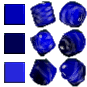
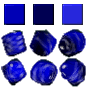
basic dice added
git-svn-id: https://svn.code.sf.net/p/domination/code@417 5f7a89d5-bd68-4938-9893-cab8262575d4

diff --git a/Domination/src_android/net/yura/domination/mobile/flashgui/BattleDialog.java b/Domination/src_android/net/yura/domination/mobile/flashgui/BattleDialog.java
@@ -5,6 +5,7 @@ import com.nokia.mid.ui.DirectGraphics;
 import com.nokia.mid.ui.DirectUtils;
 import javax.microedition.lcdui.Image;
 import javax.microedition.lcdui.game.Sprite;
+import net.yura.domination.engine.Risk;
 import net.yura.domination.engine.RiskUtil;
 import net.yura.mobile.gui.Font;
 import net.yura.mobile.gui.Graphics2D;
@@ -16,6 +17,7 @@ import net.yura.mobile.gui.components.Frame;
 public class BattleDialog extends Frame {
 
     MiniFlashGUI mainFrame;
+    Sprite red_dice,blue_dice;
 
     public BattleDialog(MiniFlashGUI a) {
         mainFrame = a;
@@ -24,14 +26,13 @@ public class BattleDialog extends Frame {
 
         try {
             Image red_img = Image.createImage("/red_dice.png");
-            Sprite red_dice = new Sprite(red_img, red_img.getWidth()/3, red_img.getHeight()/3 ); // 29x29
+            red_dice = new Sprite(red_img, red_img.getWidth()/3, red_img.getHeight()/3 ); // 29x29
 
             Image blue_img = Image.createImage("/blue_dice.png");
-            Sprite blue_dice = new Sprite(blue_img, blue_img.getWidth()/3, blue_img.getHeight()/3 ); // 29x29
+            blue_dice = new Sprite(blue_img, blue_img.getWidth()/3, blue_img.getHeight()/3 ); // 29x29
 
             //ProgressBar redbar = new ProgressBar(red_dice);
             //ProgressBar bluebar = new ProgressBar(blue_dice);
-
 
         }
         catch (Exception ex) {
@@ -43,7 +44,9 @@ public class BattleDialog extends Frame {
 
     int[] att,def; // these are the dice results
     int noda,nodd; // these are the number of spinning dice
-    boolean ani;
+    int c1num,c2num;
+    boolean ani,canRetreat;
+    int nod,max;
     //@Override
     public void animate() throws InterruptedException {
 
@@ -68,6 +71,36 @@ public class BattleDialog extends Frame {
 
     }
 
+    void needInput(int n, boolean c) {
+
+//        button.setEnabled(true);
+        max=n;
+        nod=max;
+        canRetreat=c;
+
+        att=null;
+        def=null;
+
+        if (canRetreat) {
+//                retreat.setVisible(true);
+//                setTitle(resb.getString("battle.select.attack"));
+        }
+        else {
+//                setTitle(resb.getString("battle.select.defend"));
+        }
+
+        repaint();
+
+    }
+
+    void setup(int c1num, int c2num) {
+        this.c1num = c1num;
+        this.c2num = c2num;
+    }
+
+    private static final int DICE_NORMAL = 0;
+    private static final int DICE_DARK = 1;
+
     public void paintComponent(Graphics2D g) {
 
         // just in case in the middle of the draw the att and def get set to null
@@ -76,8 +109,8 @@ public class BattleDialog extends Frame {
 
 
         // we are not drawing the countires, we will use the ones already on the map behind thid dialog
-        //g.drawImage(c1img, 130-(c1img.getWidth()/2), 100-(c1img.getHeight()/2), this);
-        //g.drawImage(c2img, 350-(c2img.getWidth()/2), 100-(c2img.getHeight()/2), this);
+        //g.drawSprite(c1img, 130-(c1img.getWidth()/2), 100-(c1img.getHeight()/2), this);
+        //g.drawSprite(c2img, 350-(c2img.getWidth()/2), 100-(c2img.getHeight()/2), this);
 
         // not supported
         //g2.setRenderingHint(RenderingHints.KEY_ANTIALIASING, RenderingHints.VALUE_ANTIALIAS_ON);
@@ -91,7 +124,7 @@ public class BattleDialog extends Frame {
         //tl = new TextLayout( country2.getName(), font, frc); // Display
         //tl.draw( g, (float) (350-(tl.getBounds().getWidth()/2)), 40f );
 
-        g.drawString("TODO", 5, 5);
+        g.drawString("TODO", 50, 50);
 
         //tl = new TextLayout( resb.getString("battle.select.dice") , font, frc);
         //tl.draw( g, (float) (240-(tl.getBounds().getWidth()/2)), 320f );
@@ -146,9 +179,11 @@ public class BattleDialog extends Frame {
         else {
                 g.drawString( String.valueOf( noa ) , 340, 105 );
         }
-
+*/
         // #####################################################
         // ################## drawing DICE!!!!! ################
+
+        Risk myrisk = mainFrame.myrisk;
 
         // this is the max defend dice allowed for this battle
         int deadDice = myrisk.hasArmiesInt(c2num);
@@ -159,53 +194,53 @@ public class BattleDialog extends Frame {
         // selecting the number of attacking dice
         if (max != 0 && canRetreat) {
 
-                g.drawImage( Battle.getSubimage(481, 0, 21, 21) , 120, 180, this );
+                g.drawSprite(red_dice, DICE_NORMAL, 120, 180);
 
                 if (nod > 1) {
-                    g.drawImage( Battle.getSubimage(481, 0, 21, 21) , 120, 211, this );
+                    g.drawSprite( red_dice , DICE_NORMAL , 120, 211);
                 }
                 else if (max > 1) {
-                    g.drawImage( Battle.getSubimage(502, 0, 21, 21) , 120, 211, this );
+                    g.drawSprite( red_dice , DICE_DARK , 120, 211 );
                 }
 
                 if (nod > 2) {
-                    g.drawImage( Battle.getSubimage(481, 0, 21, 21) , 120, 242, this );
+                    g.drawSprite( red_dice, DICE_NORMAL , 120, 242 );
                 }
                 else if (max > 2) {
-                    g.drawImage( Battle.getSubimage(502, 0, 21, 21) , 120, 242, this );
+                    g.drawSprite( red_dice , DICE_DARK , 120, 242 );
                 }
 
                 // draw the dead dice
 
-                g.drawImage( Battle.getSubimage(502, 21, 21, 21) , 339, 180, this );
+                g.drawSprite( blue_dice , DICE_DARK , 339, 180 );
 
                 if (deadDice > 1) {
-                    g.drawImage( Battle.getSubimage(502, 21, 21, 21) , 339, 211, this );
+                    g.drawSprite( blue_dice , DICE_DARK , 339, 211 );
                 }
 
                 if (deadDice > 2) {
-                    g.drawImage( Battle.getSubimage(502, 21, 21, 21) , 339, 242, this );
+                    g.drawSprite( blue_dice , DICE_DARK , 339, 242 );
                 }
 
         }
         // selecting the number of dice to defend
         else if (max != 0 ) {
 
-                g.drawImage( Battle.getSubimage(481, 21, 21, 21) , 339, 180, this );
+                g.drawSprite( blue_dice , DICE_NORMAL , 339, 180 );
 
                 if (nod > 1) {
-                    g.drawImage( Battle.getSubimage(481, 21, 21, 21) , 339, 211, this );
+                    g.drawSprite( blue_dice , DICE_NORMAL , 339, 211 );
                 }
                 else if (max > 1) {
-                    g.drawImage( Battle.getSubimage(502, 21, 21, 21) , 339, 211, this );
+                    g.drawSprite( blue_dice , DICE_DARK , 339, 211 );
                 }
 
 
                 if (nod > 2) {
-                    g.drawImage( Battle.getSubimage(481, 21, 21, 21) , 339, 242, this );
+                    g.drawSprite( blue_dice , DICE_NORMAL , 339, 242 );
                 }
                 else if (max > 2) {
-                    g.drawImage( Battle.getSubimage(502, 21, 21, 21) , 339, 242, this );
+                    g.drawSprite( blue_dice , DICE_DARK , 339, 242 );
                 }
 
         }
@@ -213,14 +248,14 @@ public class BattleDialog extends Frame {
         else if (max == 0 && nodd == 0 && atti == null && defi == null ) {
 
                 // draw the dead dice
-                g.drawImage( Battle.getSubimage(502, 21, 21, 21) , 339, 180, this );
+                g.drawSprite( blue_dice , DICE_DARK , 339, 180 );
 
                 if (deadDice > 1) {
-                    g.drawImage( Battle.getSubimage(502, 21, 21, 21) , 339, 211, this );
+                    g.drawSprite( blue_dice , DICE_DARK , 339, 211 );
                 }
 
                 if (deadDice > 2) {
-                    g.drawImage( Battle.getSubimage(502, 21, 21, 21) , 339, 242, this );
+                    g.drawSprite( blue_dice , DICE_DARK , 339, 242 );
                 }
 
                 if (noda == 0) {
@@ -229,19 +264,19 @@ public class BattleDialog extends Frame {
                         int AdeadDice = myrisk.hasArmiesInt(c1num)-1;
                         // we assume that the attacker can attack with max of 3 dice
 
-                        g.drawImage( Battle.getSubimage(502, 0, 21, 21) , 120, 180, this );
+                        g.drawSprite( red_dice , DICE_DARK , 120, 180 );
 
                         if (AdeadDice > 1) {
-                                g.drawImage( Battle.getSubimage(502, 0, 21, 21) , 120, 211, this );
+                                g.drawSprite( red_dice , DICE_DARK , 120, 211 );
                         }
                         if (AdeadDice > 2) {
-                                g.drawImage( Battle.getSubimage(502, 0, 21, 21) , 120, 242, this );
+                                g.drawSprite( red_dice , DICE_DARK , 120, 242 );
                         }
 
                 }
 
         }
-
+/*
         // #####################################################
         // ##################### END DICE ######################
 
@@ -321,24 +356,24 @@ public class BattleDialog extends Frame {
 
 
                 // draw attacker dice
-                g.drawImage( getDice(true, atti[0] ), 120, 180, this );
+                g.drawSprite( getDice(true, atti[0] ), 120, 180, this );
 
                 if (atti.length > 1) {
-                        g.drawImage( getDice(true, atti[1] ), 120, 211, this );
+                        g.drawSprite( getDice(true, atti[1] ), 120, 211, this );
                 }
                 if (atti.length > 2) {
-                        g.drawImage( getDice(true, atti[2] ), 120, 242, this );
+                        g.drawSprite( getDice(true, atti[2] ), 120, 242, this );
                 }
 
                 // draw defender dice
-                g.drawImage( getDice(false, defi[0] ), 339, 180, this );
+                g.drawSprite( getDice(false, defi[0] ), 339, 180, this );
 
                 if (defi.length > 1) {
-                        g.drawImage( getDice(false, defi[1] ), 339, 211, this );
+                        g.drawSprite( getDice(false, defi[1] ), 339, 211, this );
                 }
 
                 if (defi.length > 2) {
-                    g.drawImage( getDice(false, defi[2] ), 339, 242, this );
+                    g.drawSprite( getDice(false, defi[2] ), 339, 242, this );
                 }
 
         }

diff --git a/Domination/src_android/net/yura/domination/mobile/flashgui/MiniFlashRiskAdapter.java b/Domination/src_android/net/yura/domination/mobile/flashgui/MiniFlashRiskAdapter.java
@@ -57,9 +57,26 @@ public class MiniFlashRiskAdapter implements RiskListener {
 
     // ========================= in game ==============================
 
+    int nod;
     @Override
     public void needInput(int s) {
-        mainFrame.needInput(s);
+
+        if (s == RiskGame.STATE_ROLLING) {
+
+                battle.needInput(nod, true);
+
+        }
+        else if (s == RiskGame.STATE_DEFEND_YOURSELF) {
+
+                battle.needInput(nod, false);
+
+        }
+        //else { // this will update the state in the gameframe
+
+                mainFrame.needInput(s);
+
+        //}
+
     }
 
     @Override
@@ -81,7 +98,7 @@ public class MiniFlashRiskAdapter implements RiskListener {
             battle.setMaximum(true);
         }
 
-
+        battle.setup(c1num, c2num);
 
         // TODO: move main map to centre on where battle is happening
 
@@ -126,7 +143,7 @@ public class MiniFlashRiskAdapter implements RiskListener {
 
     @Override
     public void showDice(int n, boolean w) {
-        // TODO Auto-generated method stub
+        nod=n;
     }
 
     @Override

diff --git a/Domination/src_android/net/yura/domination/mobile/flashgui/MiniFlashGUI.java b/Domination/src_android/net/yura/domination/mobile/flashgui/MiniFlashGUI.java
@@ -33,7 +33,7 @@ import net.yura.mobile.util.Properties;
 public class MiniFlashGUI extends Frame implements ChangeListener {
 
     public Properties resBundle = MiniUtil.wrap(TranslationBundle.getBundle());
-    private Risk myrisk;
+    public Risk myrisk;
 
     ActionListener al = new ActionListener() {
 
